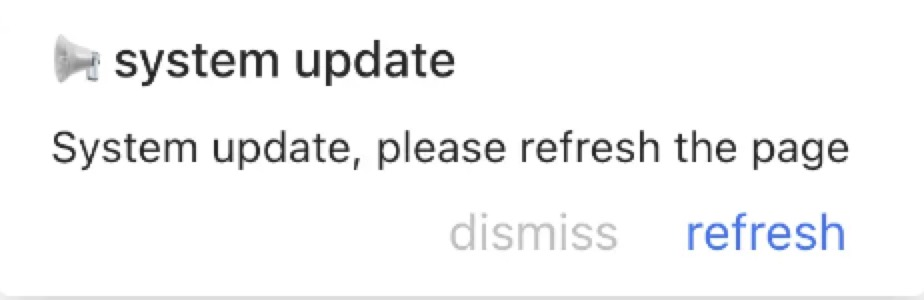
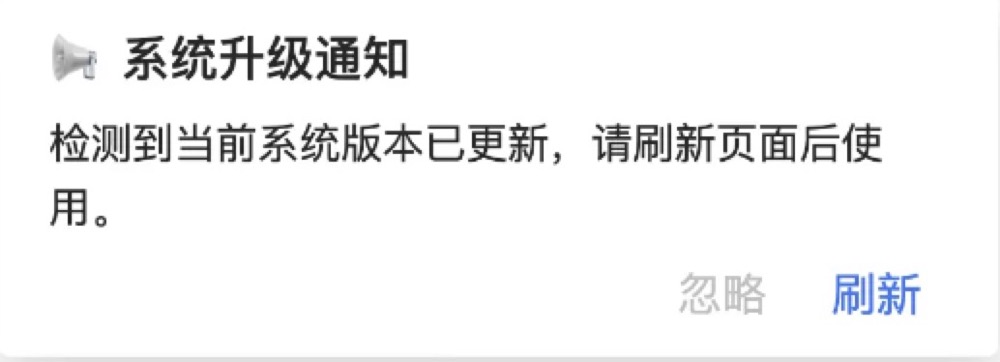
feat: complete zh docs

Changed region(s): [[0.0303, 0.33, 0.9394, 0.63], [0.0303, 0.09, 0.5152, 0.3], [0.4848, 0.69, 0.9394, 0.87]]

diff --git a/docs/.vitepress/config/zh.ts b/docs/.vitepress/config/zh.ts
@@ -12,12 +12,12 @@ export const zh = defineConfig({
     nav: nav(),
 
     sidebar: {
-      '/guide/': { base: '/guide/', items: sidebarGuide() },
-      '/reference/': { base: '/reference/', items: sidebarReference() },
+      '/zh/guide/': { base: '/zh/guide/', items: sidebarGuide() },
+      '/zh/reference/': { base: '/zh/reference/', items: sidebarReference() },
     },
 
     editLink: {
-      pattern: 'https://github.com/vuejs/vitepress/edit/main/docs/:path',
+      pattern: 'https://github.com/GreatAuk/plugin-web-update-notification/edit/main/docs/:path',
       text: '在 GitHub 上编辑此页面',
     },
 
@@ -32,27 +32,18 @@ function nav(): DefaultTheme.NavItem[] {
   return [
     {
       text: '指南',
-      link: '/guide/what-is-web-update-notification',
-      activeMatch: '/guide/',
+      link: '/zh/guide/what-is-web-update-notification',
+      activeMatch: '/zh/guide/',
     },
     {
       text: '参考',
-      link: '/reference/api',
-      activeMatch: '/reference/',
+      link: '/zh/reference/api',
+      activeMatch: '/zh/reference/',
     },
-    {
-      text: pkg.version,
-      items: [
-        // {
-        //   text: 'Changelog',
-        //   link: 'https://github.com/vuejs/vitepress/blob/main/CHANGELOG.md',
-        // },
-        // {
-        //   text: 'Contributing',
-        //   link: 'https://github.com/vuejs/vitepress/blob/main/.github/contributing.md',
-        // },
-      ],
-    },
+    // {
+    //   text: pkg.version,
+    //   link: 'https://www.npmjs.com/package/plugin-web-update-notification',
+    // },
   ]
 }
 
@@ -69,7 +60,7 @@ function sidebarGuide(): DefaultTheme.SidebarItem[] {
 
     {
       text: '使用',
-      base: '/guide/with-',
+      base: '/zh/guide/with-',
       items: [
         { text: 'Vite', link: 'vite' },
         { text: 'UmiJS', link: 'umijs' },
@@ -79,7 +70,7 @@ function sidebarGuide(): DefaultTheme.SidebarItem[] {
 
     {
       text: '进阶',
-      base: '/guide/advanced-',
+      base: '/zh/guide/advanced-',
       items: [
         { text: '国际化', link: 'i18n' },
         { text: '自定义提示文字', link: 'custom-text' },
@@ -101,7 +92,7 @@ function sidebarReference(): DefaultTheme.SidebarItem[] {
 
     {
       text: 'FAQ',
-      base: '/reference/',
+      base: '/zh/reference/',
       link: 'faq',
     },
   ]

diff --git a/docs/.vitepress/config/en.ts b/docs/.vitepress/config/en.ts
@@ -17,7 +17,7 @@ export const en = defineConfig({
     },
 
     editLink: {
-      pattern: 'https://github.com/vuejs/vitepress/edit/main/docs/:path',
+      pattern: 'https://github.com/GreatAuk/plugin-web-update-notification/edit/main/docs/:path',
       text: 'Edit this page on GitHub',
     },
 
@@ -40,19 +40,12 @@ function nav(): DefaultTheme.NavItem[] {
       link: '/reference/api',
       activeMatch: '/reference/',
     },
-    {
-      text: pkg.version,
-      items: [
-        {
-          text: 'Changelog',
-          link: 'https://github.com/vuejs/vitepress/blob/main/CHANGELOG.md',
-        },
-        {
-          text: 'Contributing',
-          link: 'https://github.com/vuejs/vitepress/blob/main/.github/contributing.md',
-        },
-      ],
-    },
+    // {
+    //   text: pkg.version,
+    //   items: [
+
+    //   ],
+    // },
   ]
 }
 

diff --git a/docs/zh/reference/faq.md b/docs/zh/reference/faq.md
@@ -1,6 +1,6 @@
 # FAQ
 
-1. `TypeScript` intellisense, if you use `window.pluginWebUpdateNotice_.` or listener custom update event。
+1. `TypeScript` 的智能提示, 如果你想使用 `window.pluginWebUpdateNotice_.` 或监听自定义更新事件。
 
    ```ts
    // src/shim.d.ts
@@ -15,91 +15,79 @@
    /// <reference types="@plugin-web-update-notification/webpack" />
    ```
 
-2. request `version.json` file get `404 error`.
+2. 请求 `version.json` 文件提示 `404 error`。
 
-   If you upload the production files bundled to cdn server:
+   上传打包内容到 cdn 服务器：
 
    ```ts
    // vite.config.ts
 
-   const prod = process.env.NODE_ENV === "production";
+   const prod = process.env.NODE_ENV === 'production'
 
-   const cdnServerUrl = "https://foo.com/";
+   const cdnServerUrl = 'https://foo.com/'
 
    export default defineConfig({
-     base: prod ? cdnServerUrl : "/",
+     base: prod ? cdnServerUrl : '/',
      plugins: [
        vue(),
        webUpdateNotice({
-         injectFileBase: cdnServerUrl,
-       }),
-     ],
-   });
+         injectFileBase: cdnServerUrl
+       })
+     ]
+   })
    ```
 
-   Deploy the project in a non-root directory:
+   在非根目录下部署的项目：
 
    ```ts
    // vite.config.ts
 
-   const prod = process.env.NODE_ENV === "production";
+   const prod = process.env.NODE_ENV === 'production'
 
-   const base = "/folder/"; // https://example.com/folder/
+   const base = '/folder/' // https://example.com/folder/
 
    export default defineConfig({
      base,
      plugins: [
        vue(),
        webUpdateNotice({
-         injectFileBase: base,
-       }),
-     ],
-   });
+         injectFileBase: base
+       })
+     ]
+   })
    ```
 
-   > After version 1.2.0, in most case, you not need to set injectFileBase, it will be automatically detected from the base of vite config、publicPath of webpack config or publicPath of umi config
+   > After version 1.2.0, you not need to set this option, it will be automatically detected from the base of vite config、publicPath of webpack config or publicPath of umi config
 
-3. Custom notification button event.
+3. 自定义 `notification` 的刷新和忽略按钮事件。
 
    ```ts
    // refresh button click event, if you set it, it will cover the default event (location.reload())
-   window.pluginWebUpdateNotice_.onClickRefresh = (version) => {
-     alert(`click refresh btn: ${version}`);
-   };
+   window.pluginWebUpdateNotice_.onClickRefresh = (version) => { alert(`click refresh btn: ${version}`) }
 
    // dismiss button click event, if you set it, it will cover the default event (dismissUpdate())
-   window.pluginWebUpdateNotice_.onClickDismiss = (version) => {
-     alert(`click dismiss btn: ${version}`);
-   };
+   window.pluginWebUpdateNotice_.onClickDismiss = (version) => { alert(`click dismiss btn: ${version}`) }
    ```
 
-4. Custom notification style.
+4. 自定义 notification 样式。
 
-   you can cover css styles with higher weights. ([default css file](https://github.com/GreatAuk/plugin-web-update-notification/blob/master/packages/core/public/webUpdateNoticeInjectStyle.css))
+   你可以通过更高的权重覆盖默认样式。([default css file](https://github.com/GreatAuk/plugin-web-update-notification/blob/master/packages/core/public/webUpdateNoticeInjectStyle.css))
 
    ```html
    <!-- notification html content -->
 
    <div class="plugin-web-update-notice-anchor">
      <div class="plugin-web-update-notice">
-       <div
-         class="plugin-web-update-notice-content"
-         data-cy="notification-content"
-       >
+       <div class="plugin-web-update-notice-content" data-cy="notification-content">
          <div class="plugin-web-update-notice-content-title">
-           📢 system update
+           📢  system update
          </div>
          <div class="plugin-web-update-notice-content-desc">
            System update, please refresh the page
          </div>
          <div class="plugin-web-update-notice-tools">
-           <a
-             class="plugin-web-update-notice-btn plugin-web-update-notice-dismiss-btn"
-             >dismiss</a
-           >
-           <a
-             class="plugin-web-update-notice-btn plugin-web-update-notice-refresh-btn"
-           >
+           <a class="plugin-web-update-notice-btn plugin-web-update-notice-dismiss-btn">dismiss</a>
+           <a class="plugin-web-update-notice-btn plugin-web-update-notice-refresh-btn">
              refresh
            </a>
          </div>
@@ -108,17 +96,17 @@
    </div>
    ```
 
-5. manual check update.
+5. 手动检测更新
 
    ```ts
    // vue-router check update before each route change
    router.beforeEach((to, from, next) => {
-     window.pluginWebUpdateNotice_.checkUpdate();
-     next();
-   });
+     window.pluginWebUpdateNotice_.checkUpdate()
+     next()
+   })
    ```
 
-6. Some versions do not notify. For example, if the customer version is `v1.0`, you need to update to `v1.0.1`, but do not want to display the update prompt.
+6. 部分版本不通知。如客户版本是 `v1.0`, 你需要更新 `v1.0.1`, 但不想显示更新提示。
 
    ```ts
    webUpdateNotice({
@@ -126,3 +114,7 @@
      silence: true
    })
    ```
+
+
+## 文章
+* https://juejin.cn/post/7209234917288886331

diff --git a/docs/zh/index.md b/docs/zh/index.md
@@ -6,20 +6,20 @@ titleTemplate: Detect webpage updates and notify user to reload. support vite, u
 
 hero:
   name: Web Update Notification
-  text: Detect webpage updates and notify user to reload.
-  tagline: Easy to notify refresh, support vite, umijs and webpack
+  text: 检测网页更新并通知用户刷新。
+  tagline: 支持 vite、umijs 和 webpack 插件。
   actions:
     - theme: brand
-      text: What is Web Update Notification?
-      link: /guide/what-is-web-update-notification
+      text: 什么是 Web Update Notification?
+      link: /zh/guide/what-is-web-update-notification
     - theme: alt
-      text: Quickstart
-      link: /guide/getting-started
+      text: 快速开始
+      link: /zh/guide/getting-started
     - theme: alt
       text: GitHub
       link: https://github.com/GreatAuk/plugin-web-update-notification
   image:
-    src: /notify.jpg
+    src: /notify-zh.jpg
     alt: web-update-notification
 
 # features:
